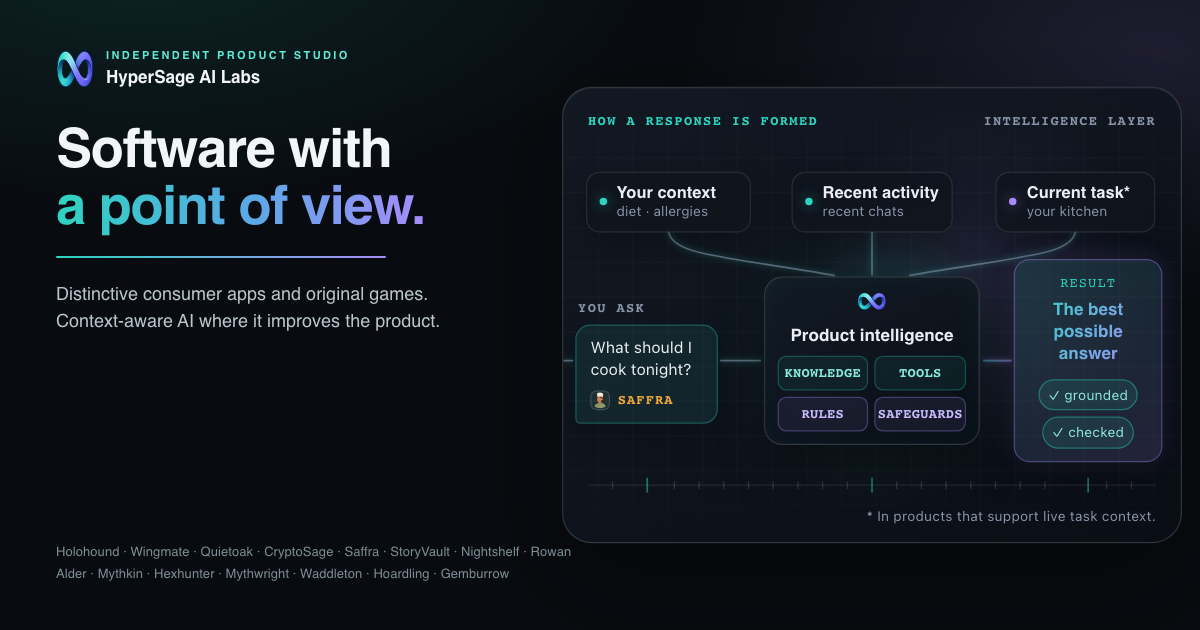
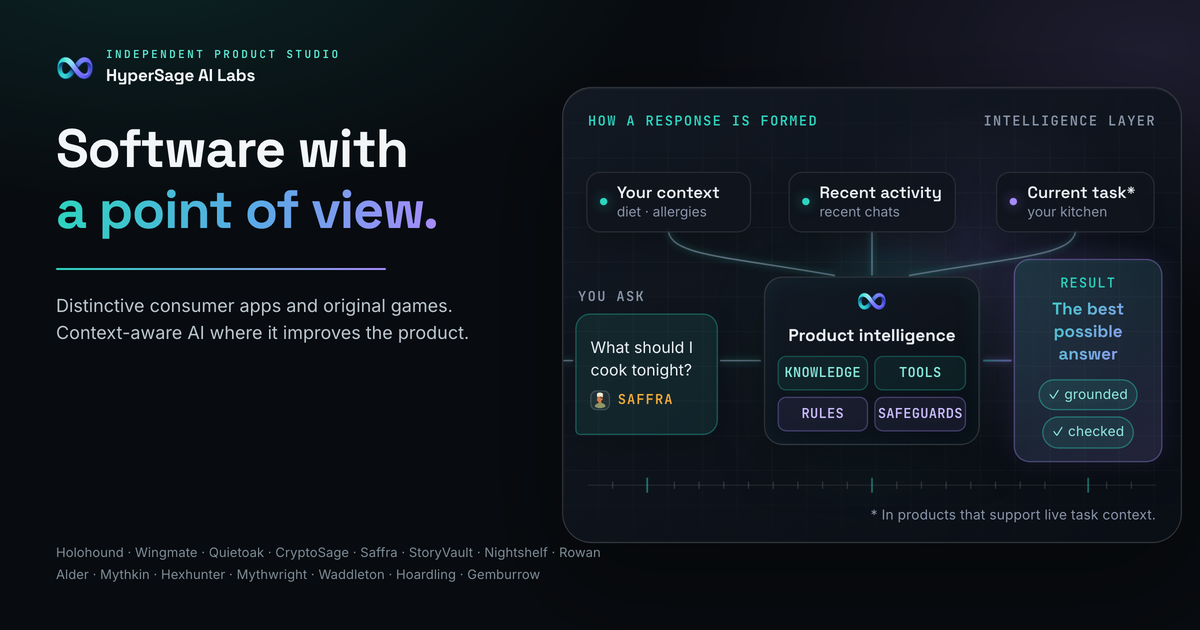
The link preview was in the wrong typeface, and my new mark was stretched in it
Vanus looked at the card and called it broken. Three things, measured:

1. REGRESSION FROM 55fa10f. The template pinned '.og-brand img' to 38x42 with
   no object-fit — the exact aspect of the OLD logo.png, a portrait canvas with
   the mark floating inside it. Re-cropping logo.png to the mark's own 3:2 then
   stretched it: measured ink in the shipped card was 36x36, ratio 1.00 against
   the artwork's 1.61, i.e. 61% too tall. Now 38x26 + object-fit:contain, so a
   future aspect change letterboxes instead of distorting. Rebuilt: 1.64.

2. THE CARD WAS NEVER IN THE BRAND'S TYPEFACE. It lifts index.html's <style>
   block, but the site's @font-face rules live in fonts/fonts.css, which the
   template never linked — so Space Grotesk, JetBrains Mono and Inter all fell
   back to SF Pro, including inside the LIFTED figure whose own CSS names them.
   The preview did not look like the page it previews, which is the drift this
   renderer exists to prevent, wearing a font instead of a claim. Links
   fonts.css and waits on document.fonts before shooting (font-display:swap
   means first paint can still be fallback metrics).

3. Rendered at 1x, 17px descenders came out one thin row and read as CHOPPED —
   what Vanus saw as the wordmark being cut off. It was never a DOM clip;
   nothing above BODY has overflow:hidden. Now supersampled: 2x render, LANCZOS
   down to exactly 1200x630 (the auditor rejects any other size).
[…]

diff --git a/privacy.html b/privacy.html
@@ -17,11 +17,11 @@
   <meta property="og:description" content="How the HyperSage AI Labs website handles data — it collects nothing, sets no cookies, and runs no analytics. Each product has its own policy.">
   <meta property="og:url" content="https://hypersage.ai/privacy.html">
   <meta property="og:site_name" content="HyperSage AI Labs">
-  <meta property="og:image" content="https://hypersage.ai/og-image.png?v=20260825a">
+  <meta property="og:image" content="https://hypersage.ai/og-image.png?v=20260825b">
   <meta property="og:image:width" content="1200">
   <meta property="og:image:height" content="630">
   <meta name="twitter:card" content="summary_large_image">
-  <meta name="twitter:image" content="https://hypersage.ai/og-image.png?v=20260825a">
+  <meta name="twitter:image" content="https://hypersage.ai/og-image.png?v=20260825b">
   <link rel="icon" type="image/png" href="favicon.png">
   <link rel="apple-touch-icon" sizes="180x180" href="apple-touch-icon.png">
   <link rel="stylesheet" href="fonts/fonts.css">

diff --git a/press.html b/press.html
@@ -13,11 +13,11 @@
   <meta property="og:description" content="Studio boilerplate, fact sheet, product one-liners, and downloadable logos and icons.">
   <meta property="og:url" content="https://hypersage.ai/press.html">
   <meta property="og:site_name" content="HyperSage AI Labs">
-  <meta property="og:image" content="https://hypersage.ai/og-image.png?v=20260825a">
+  <meta property="og:image" content="https://hypersage.ai/og-image.png?v=20260825b">
   <meta property="og:image:width" content="1200">
   <meta property="og:image:height" content="630">
   <meta name="twitter:card" content="summary_large_image">
-  <meta name="twitter:image" content="https://hypersage.ai/og-image.png?v=20260825a">
+  <meta name="twitter:image" content="https://hypersage.ai/og-image.png?v=20260825b">
   <link rel="icon" type="image/png" href="favicon.png">
   <link rel="apple-touch-icon" sizes="180x180" href="apple-touch-icon.png">
   <link rel="stylesheet" href="fonts/fonts.css">

diff --git a/support.html b/support.html
@@ -16,11 +16,11 @@
   <meta property="og:description" content="Get help with a HyperSage product, or reach the studio. Email support@hypersage.ai.">
   <meta property="og:url" content="https://hypersage.ai/support.html">
   <meta property="og:site_name" content="HyperSage AI Labs">
-  <meta property="og:image" content="https://hypersage.ai/og-image.png?v=20260825a">
+  <meta property="og:image" content="https://hypersage.ai/og-image.png?v=20260825b">
   <meta property="og:image:width" content="1200">
   <meta property="og:image:height" content="630">
   <meta name="twitter:card" content="summary_large_image">
-  <meta name="twitter:image" content="https://hypersage.ai/og-image.png?v=20260825a">
+  <meta name="twitter:image" content="https://hypersage.ai/og-image.png?v=20260825b">
   <link rel="icon" type="image/png" href="favicon.png">
   <link rel="apple-touch-icon" sizes="180x180" href="apple-touch-icon.png">
   <link rel="stylesheet" href="fonts/fonts.css">

diff --git a/terms.html b/terms.html
@@ -16,11 +16,11 @@
   <meta property="og:description" content="The terms that govern the HyperSage AI Labs website. Each product has its own terms.">
   <meta property="og:url" content="https://hypersage.ai/terms.html">
   <meta property="og:site_name" content="HyperSage AI Labs">
-  <meta property="og:image" content="https://hypersage.ai/og-image.png?v=20260825a">
+  <meta property="og:image" content="https://hypersage.ai/og-image.png?v=20260825b">
   <meta property="og:image:width" content="1200">
   <meta property="og:image:height" content="630">
   <meta name="twitter:card" content="summary_large_image">
-  <meta name="twitter:image" content="https://hypersage.ai/og-image.png?v=20260825a">
+  <meta name="twitter:image" content="https://hypersage.ai/og-image.png?v=20260825b">
   <link rel="icon" type="image/png" href="favicon.png">
   <link rel="apple-touch-icon" sizes="180x180" href="apple-touch-icon.png">
   <link rel="stylesheet" href="fonts/fonts.css">

diff --git a/tools/build_og.py b/tools/build_og.py
@@ -71,7 +71,14 @@ def build_html() -> str:
     half = (len(products) + 1) // 2
     row1 = " · ".join(products[:half])
     row2 = " · ".join(products[half:])
-    return f"""<!doctype html><html><head><meta charset="utf-8"><style>{style}</style>
+    return f"""<!doctype html><html><head><meta charset="utf-8">
+<!-- The site's @font-face rules live HERE, not in index.html's <style> block, so
+     lifting that block alone rendered the whole card — including the lifted
+     figure, whose CSS asks for these families BY NAME — in system fallback.
+     A preview set in a different typeface than the page it previews is the same
+     drift this renderer exists to prevent, wearing a font instead of a claim. -->
+<link rel="stylesheet" href="fonts/fonts.css">
+<style>{style}</style>
 <style>
   html,body {{ margin:0; padding:0; width:{W}px; height:{H}px; overflow:hidden; }}
   body {{ background:#080B0F; }}
@@ -84,21 +91,28 @@ def build_html() -> str:
   .og-left {{ width:520px; flex:0 0 520px; }}
   .og-right {{ flex:1; display:flex; align-items:center; justify-content:center; }}
   .og-brand {{ display:flex; align-items:center; gap:12px; margin-bottom:30px; }}
-  .og-brand img {{ width:38px; height:42px; }}
-  .og-brand .t1 {{ font: 600 11px/1.1 ui-sans-serif,-apple-system,'Segoe UI',sans-serif;
+  /* object-fit, and a box that matches the ASSET's aspect rather than restating
+     it. This pair was 38x42 — the exact aspect of the old logo.png, which was a
+     portrait canvas with the mark floating inside it. When logo.png was
+     re-cropped to the mark's own 3:2, the pin silently stretched it 61% too
+     tall. A box that hardcodes one asset's proportions is a second definition
+     of that asset, and it does not travel when the asset is fixed. */
+  .og-brand img {{ width:38px; height:26px; object-fit:contain; }}
+  .og-brand .t1 {{ font: 600 11px/1.1 'JetBrains Mono',ui-monospace,monospace;
                    letter-spacing:.22em; text-transform:uppercase; color:#5EEAD4; }}
-  .og-brand .t2 {{ font: 700 17px/1.3 ui-sans-serif,-apple-system,'Segoe UI',sans-serif; color:#F2F6F8; margin-top:3px; }}
-  .og h1 {{ font: 800 54px/1.06 ui-sans-serif,-apple-system,'Segoe UI',sans-serif;
-            color:#F2F6F8; margin:0 0 22px; letter-spacing:-.022em; }}
+  .og-brand .t2 {{ font: 700 17px/1.45 'Space Grotesk','Inter',sans-serif; color:#F2F6F8;
+                   margin-top:3px; letter-spacing:-.01em; }}
+  .og h1 {{ font: 700 54px/1.14 'Space Grotesk','Inter',sans-serif;
+            color:#F2F6F8; margin:0 0 22px; letter-spacing:-.02em; padding-bottom:.1em; }}
   /* The SAME gradient the live headline uses — teal -> blue -> violet. The old
      preview flattened this to one teal, which is half the brand. */
   .og h1 .grad {{ background:linear-gradient(96deg,#2DD4BF 0%,#5AA9E6 52%,#A78BFA 100%);
                   -webkit-background-clip:text; background-clip:text; color:transparent; }}
   .og .rule {{ width:330px; height:2px; margin:0 0 22px;
                background:linear-gradient(90deg,#2DD4BF,#A78BFA); border-radius:2px; }}
-  .og p {{ font: 400 18px/1.5 ui-sans-serif,-apple-system,'Segoe UI',sans-serif;
+  .og p {{ font: 400 18px/1.5 'Inter',ui-sans-serif,-apple-system,sans-serif;
            color:#B9C6CE; margin:0; max-width:470px; }}
-  .og .apps {{ position:absolute; left:56px; bottom:44px; font: 400 13px/1.75 ui-sans-serif,-apple-system,sans-serif;
+  .og .apps {{ position:absolute; left:56px; bottom:44px; font: 400 13px/1.75 'Inter',ui-sans-serif,sans-serif;
                color:#7C8B95; letter-spacing:.005em; }}
   /* The figure is the site's, so pin only its BOX — never its internals.
      Scaled UP, and that is the whole point: a link preview is rendered ~460px
@@ -184,11 +198,27 @@ def main() -> None:
     from playwright.sync_api import sync_playwright
     with sync_playwright() as pw:
         b = pw.chromium.launch()
-        pg = b.new_page(viewport={"width": W, "height": H}, device_scale_factor=1)
+        # SUPERSAMPLED. Rendered at 2x and resampled down to exactly WxH, because
+        # a card drawn at 1x puts 17px text and a 26px mark on a whole-pixel grid:
+        # descenders came out a single thin row and read as CHOPPED at the size a
+        # message bubble actually shows this (~460px wide). Downsampling from 2x
+        # gives those strokes real coverage. The file stays WxH — the site
+        # auditor fails og-image.png at any other dimensions, and social scrapers
+        # size against the declared og:image:width/height.
+        pg = b.new_page(viewport={"width": W, "height": H}, device_scale_factor=2)
         pg.goto(tmp.as_uri())
+        # The families are ours and self-hosted, but font-display:swap means the
+        # first paint can still be fallback metrics. Screenshotting through that
+        # window is how a card ends up in a typeface the site does not use.
+        pg.wait_for_function("document.fonts.status === 'loaded'", timeout=10_000)
         pg.wait_for_timeout(700)          # let the figure's CSS animation settle
-        pg.screenshot(path=str(OUT))
+        shot = ROOT / "_og_2x.png"
+        pg.screenshot(path=str(shot))
         b.close()
+    from PIL import Image
+    with Image.open(shot) as im:
+        im.convert("RGB").resize((W, H), Image.LANCZOS).save(OUT, optimize=True)
+    shot.unlink(missing_ok=True)
     tmp.unlink(missing_ok=True)
     # Stamp what this render was made of, so --check can tell later whether
     # the page moved on without it.
